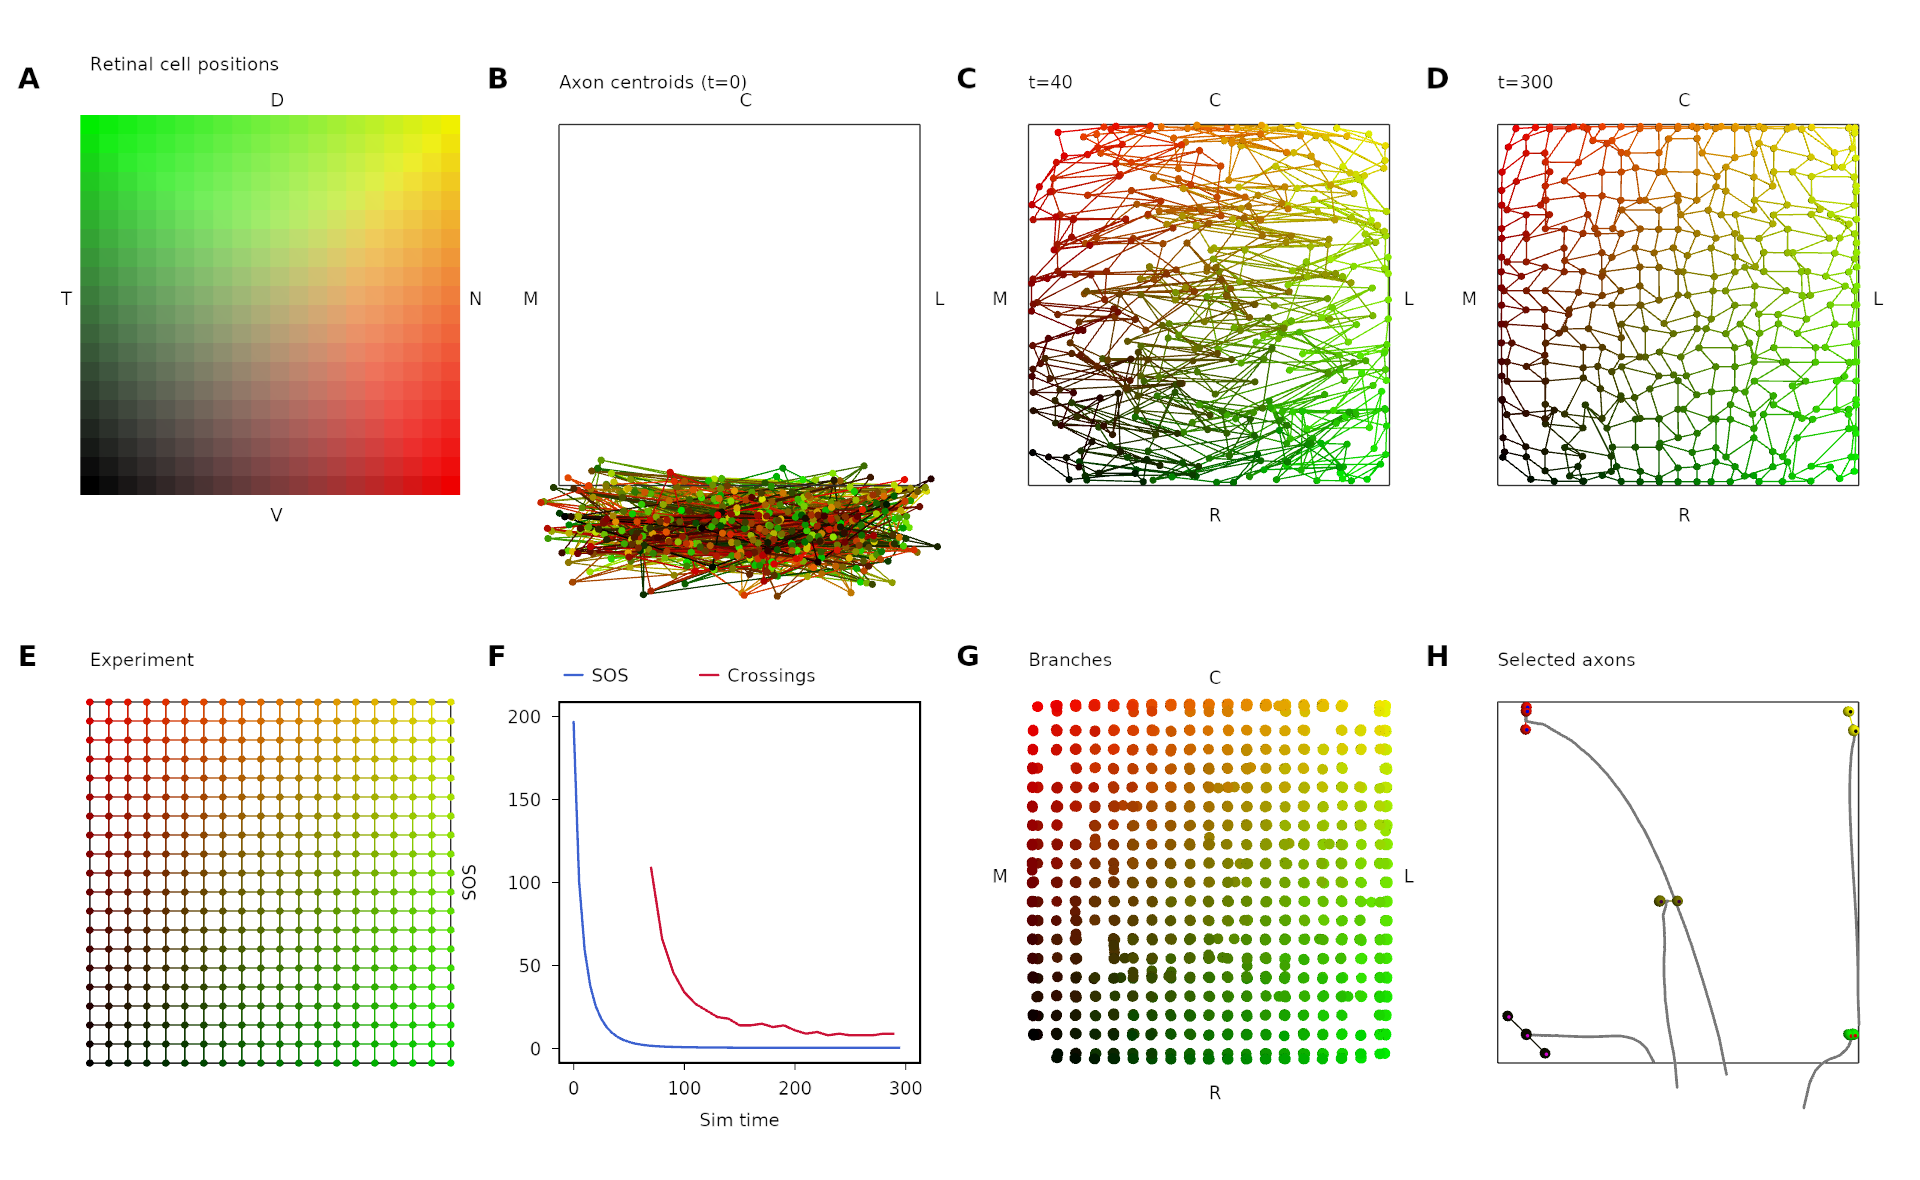
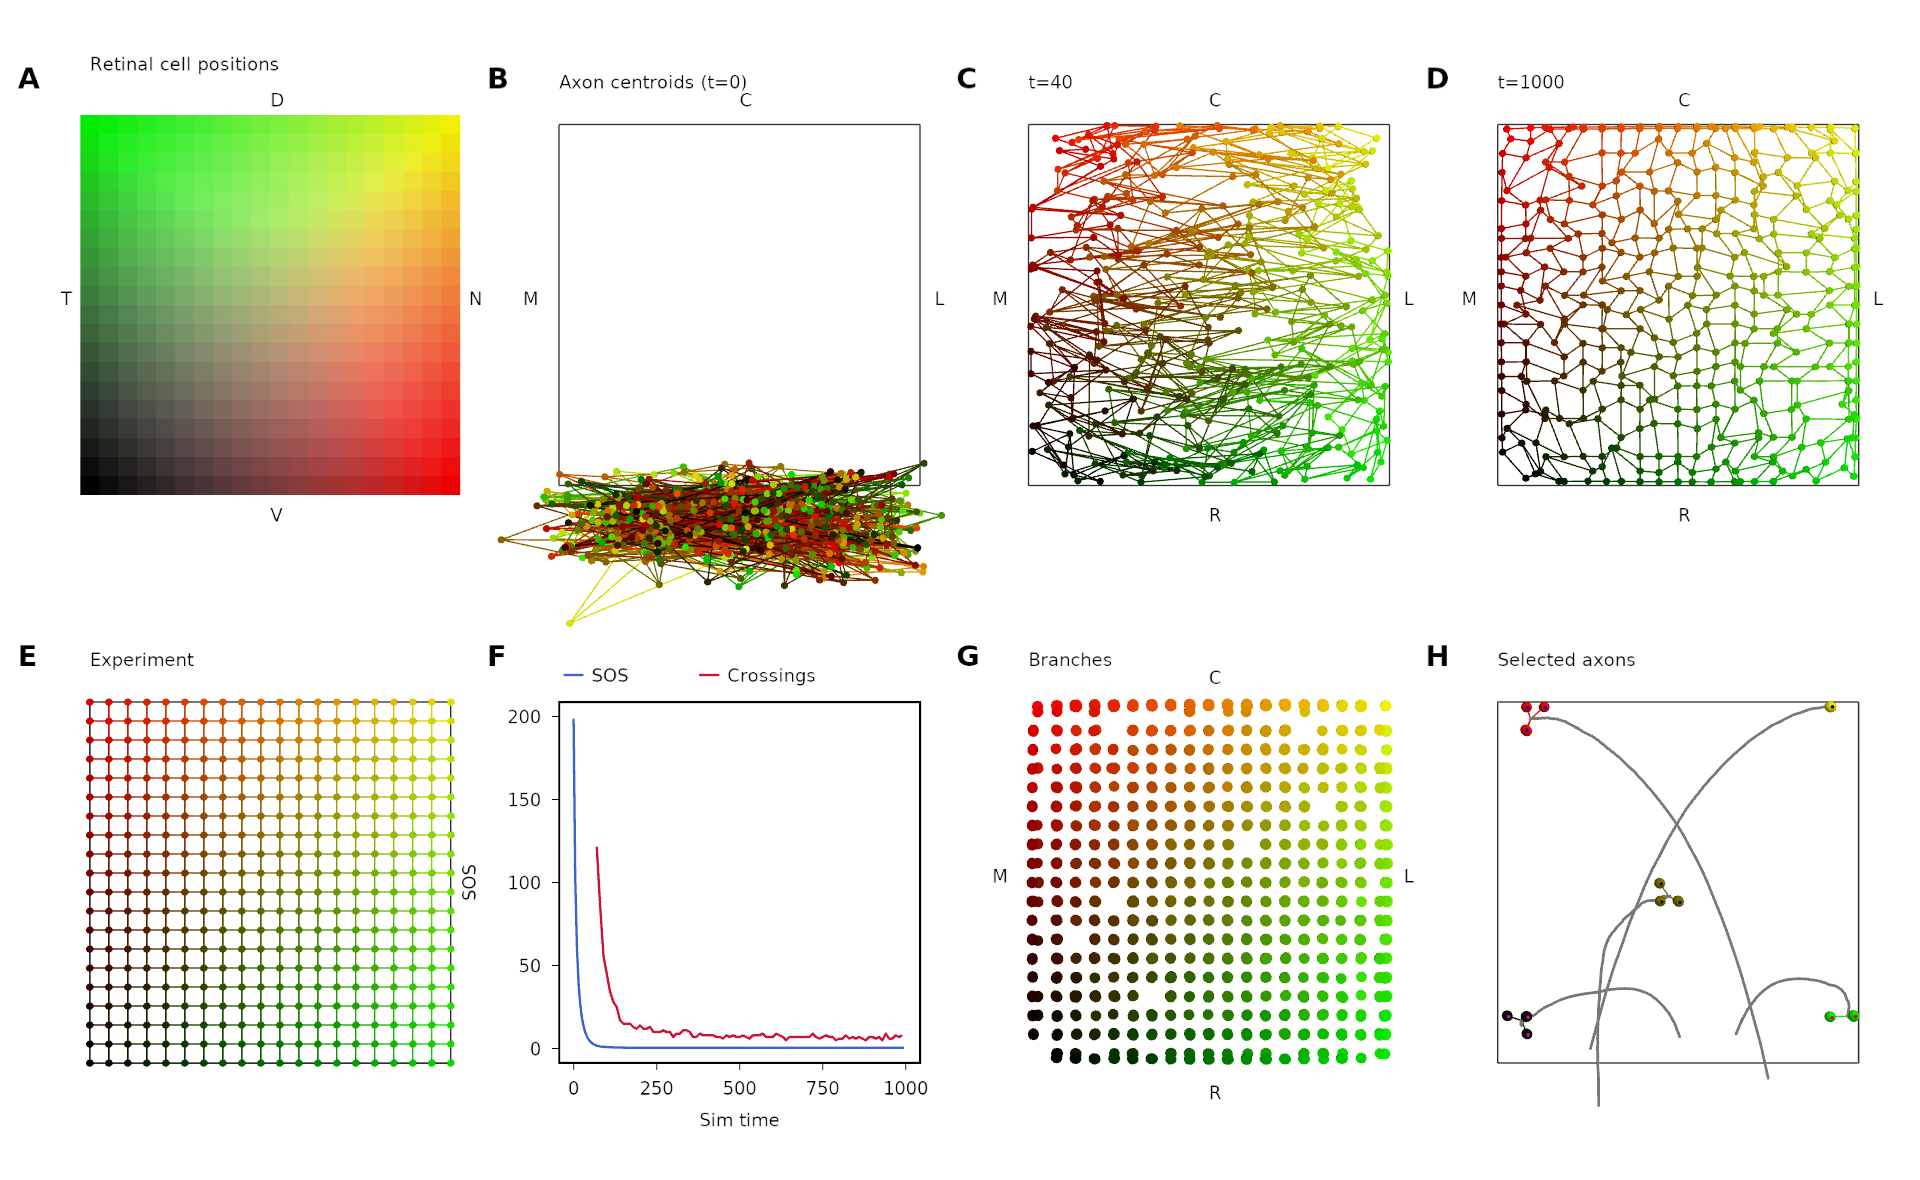
Show GC model at t=1000

diff --git a/paper/paper.tex b/paper/paper.tex
@@ -782,6 +782,12 @@ for two growth cones of interaction radius $r_c$ separated by a distance
 $d_{kb}$. $B_{b,c}$ is the set of growth cones within a distance $2r_c$ of
 branch $b$.
 
+\begin{figure}
+\includegraphics[width=\linewidth]{./images/j4_ee_GC_best_1_wt_figcomp1.png}
+\caption{$\mathbf{GC}$ model}
+\label{f:GC}
+\end{figure}
+
 The model defined by the receptor and ligand expressions of Eqs.\,\ref{e:retrcpt}
 \& \ref{e:tecligexp} along with Eq.\,\ref{e:mv2} with $m_{\!_I}=m_{\!_J}=0$ has three
 free parameters; $m_{\!_G}$, $m_c$ and $r_c$. To find the best combination of
